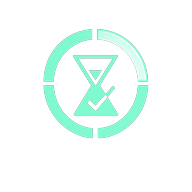
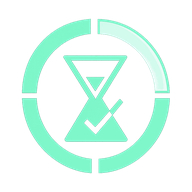
new splash animation

Changed region(s): [[0.0938, 0.0938, 0.9062, 0.9062]]

diff --git a/public/sw.js b/public/sw.js
@@ -1,6 +1,6 @@
 // Session Clock Service Worker — offline cache strategy
-const CACHE = 'session-clock-v5';
-const PRECACHE = ['/', '/index.html', '/splash-bunny.png'];
+const CACHE = 'session-clock-v6';
+const PRECACHE = ['/', '/index.html', '/splash-base.png', '/splash-triangle.png'];
 
 self.addEventListener('install', e => {
   e.waitUntil(caches.open(CACHE).then(c => c.addAll(PRECACHE)).then(() => self.skipWaiting()));
